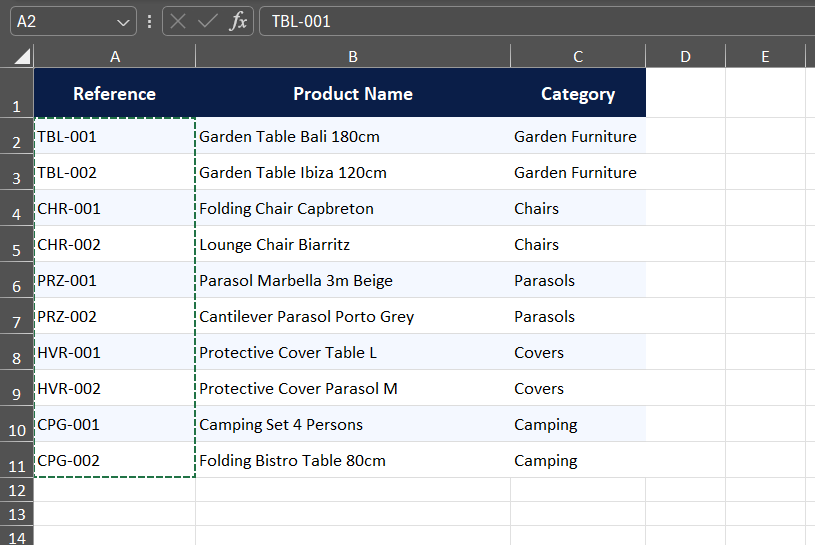
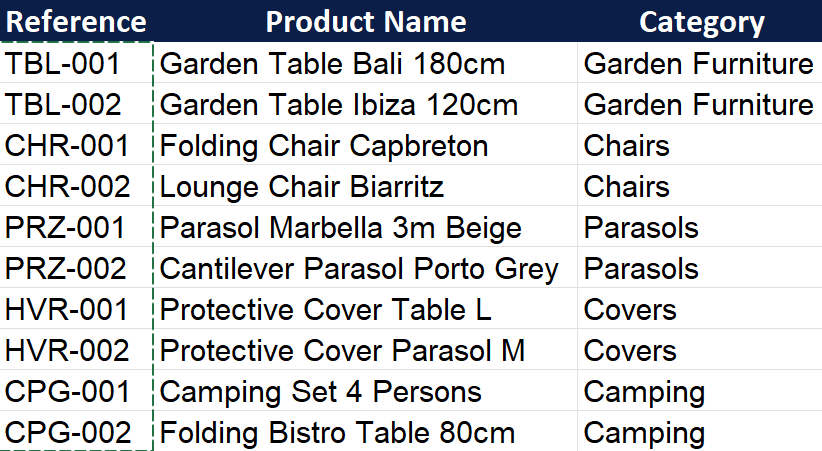
Unify Products use case card with other categories, show dual-field search proof, enlarge all captions

diff --git a/sa_multi_search/static/description/index.html b/sa_multi_search/static/description/index.html
@@ -55,7 +55,7 @@
         <div style="margin:30px 0;">
             <div style="display:inline-block;border:2px solid #0a1e48;color:#0a1e48;font-size:13px;font-weight:700;letter-spacing:1px;text-transform:uppercase;padding:6px 16px;border-radius:4px 4px 0 0;">Your Excel file</div>
             <img src="screen_excel.png" alt="Excel references list" style="width:100%;max-width:1100px;margin:0 auto;border-radius:0 8px 8px 8px;border:1px solid #dce8ff;display:block;"/>
-            <p style="font-size:15px;color:#888;text-align:center;margin:12px 0 0;font-style:italic;">Select your reference column in Excel and copy it (Ctrl+C)</p>
+            <p style="font-size:18px;color:#888;text-align:center;margin:14px 0 0;font-style:italic;">Select your reference column in Excel and copy it (Ctrl+C)</p>
         </div>
 
         <table style="width:100%;border-collapse:separate;border-spacing:0 14px;">
@@ -91,7 +91,7 @@
         <div style="margin:34px 0 0;">
             <div style="display:inline-block;border:2px solid #0a1e48;color:#0a1e48;font-size:13px;font-weight:700;letter-spacing:1px;text-transform:uppercase;padding:6px 16px;border-radius:4px 4px 0 0;">Result in Odoo</div>
             <img src="screen_odoo.png" alt="Multi search result in Odoo" style="width:100%;max-width:1100px;margin:0 auto;border-radius:0 8px 8px 8px;border:1px solid #dce8ff;display:block;"/>
-            <p style="font-size:15px;color:#888;text-align:center;margin:12px 0 0;font-style:italic;">All 10 products found instantly from the pasted references</p>
+            <p style="font-size:18px;color:#888;text-align:center;margin:14px 0 0;font-style:italic;">All 10 products found instantly from the pasted references</p>
         </div>
     </div>
 
@@ -143,12 +143,17 @@
 
         <div style="margin:26px 0;">
             <img src="screen_excel.png" alt="Excel reference list - Products" style="width:100%;max-width:800px;display:block;border-radius:8px;border:1px solid #dce8ff;"/>
-            <p style="font-size:15px;color:#888;margin:12px 0 0;font-style:italic;">Reference list in Excel</p>
+            <p style="font-size:18px;color:#888;margin:14px 0 0;font-style:italic;">Reference list in Excel</p>
+        </div>
+
+        <div style="margin-bottom:26px;">
+            <img src="screen_odoo_ref.png" alt="Multi search result by Internal Reference - Products" style="width:100%;max-width:1240px;display:block;border-radius:8px;border:1px solid #dce8ff;"/>
+            <p style="font-size:18px;color:#888;margin:14px 0 0;font-style:italic;">Searched by Internal Reference -- all matching products found</p>
         </div>
 
         <div>
-            <img src="screen_odoo.png" alt="Multi search result - Products" style="width:100%;max-width:1240px;display:block;border-radius:8px;border:1px solid #dce8ff;"/>
-            <p style="font-size:15px;color:#888;margin:12px 0 0;font-style:italic;">All matching products found in Odoo</p>
+            <img src="screen_odoo_name.png" alt="Multi search result by Product Name - Products" style="width:100%;max-width:1240px;display:block;border-radius:8px;border:1px solid #dce8ff;"/>
+            <p style="font-size:18px;color:#888;margin:14px 0 0;font-style:italic;">Same list searched by Product Name instead -- works on any field</p>
         </div>
     </div>
     <div style="margin-bottom:80px;">
@@ -156,12 +161,12 @@
 
         <div style="margin:26px 0;">
             <img src="ventes_excel.png" alt="Excel reference list - Sales Orders" style="width:100%;max-width:800px;display:block;border-radius:8px;border:1px solid #dce8ff;"/>
-            <p style="font-size:15px;color:#888;margin:12px 0 0;font-style:italic;">Reference list in Excel</p>
+            <p style="font-size:18px;color:#888;margin:14px 0 0;font-style:italic;">Reference list in Excel</p>
         </div>
 
         <div>
             <img src="ventes_odoo.png" alt="Multi search result - Sales Orders" style="width:100%;max-width:1240px;display:block;border-radius:8px;border:1px solid #dce8ff;"/>
-            <p style="font-size:15px;color:#888;margin:12px 0 0;font-style:italic;">All matching sales orders found in Odoo</p>
+            <p style="font-size:18px;color:#888;margin:14px 0 0;font-style:italic;">All matching sales orders found in Odoo</p>
         </div>
     </div>
     <div style="margin-bottom:80px;">
@@ -169,12 +174,12 @@
 
         <div style="margin:26px 0;">
             <img src="achats_excel.png" alt="Excel reference list - Purchase Orders" style="width:100%;max-width:800px;display:block;border-radius:8px;border:1px solid #dce8ff;"/>
-            <p style="font-size:15px;color:#888;margin:12px 0 0;font-style:italic;">Reference list in Excel</p>
+            <p style="font-size:18px;color:#888;margin:14px 0 0;font-style:italic;">Reference list in Excel</p>
         </div>
 
         <div>
             <img src="achats_odoo.png" alt="Multi search result - Purchase Orders" style="width:100%;max-width:1240px;display:block;border-radius:8px;border:1px solid #dce8ff;"/>
-            <p style="font-size:15px;color:#888;margin:12px 0 0;font-style:italic;">All matching purchase orders found in Odoo</p>
+            <p style="font-size:18px;color:#888;margin:14px 0 0;font-style:italic;">All matching purchase orders found in Odoo</p>
         </div>
     </div>
     <div style="margin-bottom:80px;">
@@ -182,12 +187,12 @@
 
         <div style="margin:26px 0;">
             <img src="fabrication_excel.png" alt="Excel reference list - Manufacturing Orders" style="width:100%;max-width:800px;display:block;border-radius:8px;border:1px solid #dce8ff;"/>
-            <p style="font-size:15px;color:#888;margin:12px 0 0;font-style:italic;">Reference list in Excel</p>
+            <p style="font-size:18px;color:#888;margin:14px 0 0;font-style:italic;">Reference list in Excel</p>
         </div>
 
         <div>
             <img src="fabrication_odoo.png" alt="Multi search result - Manufacturing Orders" style="width:100%;max-width:1240px;display:block;border-radius:8px;border:1px solid #dce8ff;"/>
-            <p style="font-size:15px;color:#888;margin:12px 0 0;font-style:italic;">All matching manufacturing orders found in Odoo</p>
+            <p style="font-size:18px;color:#888;margin:14px 0 0;font-style:italic;">All matching manufacturing orders found in Odoo</p>
         </div>
     </div>
     <div style="margin-bottom:80px;">
@@ -195,12 +200,12 @@
 
         <div style="margin:26px 0;">
             <img src="inventory_excel.png" alt="Excel reference list - Inventory" style="width:100%;max-width:800px;display:block;border-radius:8px;border:1px solid #dce8ff;"/>
-            <p style="font-size:15px;color:#888;margin:12px 0 0;font-style:italic;">Reference list in Excel</p>
+            <p style="font-size:18px;color:#888;margin:14px 0 0;font-style:italic;">Reference list in Excel</p>
         </div>
 
         <div>
             <img src="inventory_odoo.png" alt="Multi search result - Inventory" style="width:100%;max-width:1240px;display:block;border-radius:8px;border:1px solid #dce8ff;"/>
-            <p style="font-size:15px;color:#888;margin:12px 0 0;font-style:italic;">All matching transfers found in Odoo</p>
+            <p style="font-size:18px;color:#888;margin:14px 0 0;font-style:italic;">All matching transfers found in Odoo</p>
         </div>
     </div>
     <div style="margin-bottom:80px;">
@@ -208,12 +213,12 @@
 
         <div style="margin:26px 0;">
             <img src="contacts_excel.png" alt="Excel reference list - Contacts" style="width:100%;max-width:800px;display:block;border-radius:8px;border:1px solid #dce8ff;"/>
-            <p style="font-size:15px;color:#888;margin:12px 0 0;font-style:italic;">Reference list in Excel</p>
+            <p style="font-size:18px;color:#888;margin:14px 0 0;font-style:italic;">Reference list in Excel</p>
         </div>
 
         <div>
             <img src="contacts_odoo.png" alt="Multi search result - Contacts" style="width:100%;max-width:1240px;display:block;border-radius:8px;border:1px solid #dce8ff;"/>
-            <p style="font-size:15px;color:#888;margin:12px 0 0;font-style:italic;">All matching contacts found in Odoo</p>
+            <p style="font-size:18px;color:#888;margin:14px 0 0;font-style:italic;">All matching contacts found in Odoo</p>
         </div>
     </div>
 </div>
